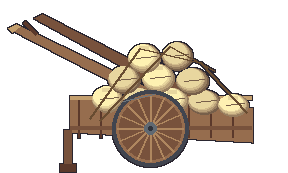
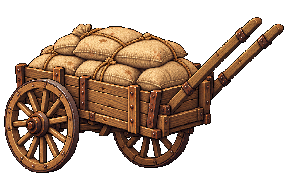
feat(assets): marsh path and port scenery

diff --git a/assets/CREDITS.md b/assets/CREDITS.md
@@ -34,6 +34,11 @@ egg n'a pas de licence établie (PLAN.md section 13) et n'est pas copié.
 
 | `assets/hd2d/ground/grass_b.png`, `assets/hd2d/ground/forest_floor_b.png`, `assets/hd2d/ground/path_dirt_b.png`, `assets/hd2d/ground/leaf_litter.png`, `assets/hd2d/ground/moss.png`, `assets/hd2d/ground/grass_dry_b.png`, `assets/hd2d/ground/flagstone_b.png`, `assets/hd2d/ground/cobble_b.png`, `assets/hd2d/ground/meadow_flowers.png`, `assets/hd2d/ground/gravel.png`, `assets/hd2d/ground/garden_soil.png`, `assets/hd2d/ground/sand_b.png`, `assets/hd2d/ground/rock_b.png`, `assets/hd2d/ground/planks.png`, `assets/hd2d/ground/stream_bed.png`, `assets/hd2d/decals/grass_edge_a.png`, `assets/hd2d/decals/grass_edge_b.png`, `assets/hd2d/decals/pebbles_a.png`, `assets/hd2d/decals/garden_bed.png`, `assets/hd2d/decals/clover_patch.png`, `assets/hd2d/decals/flowers_patch_a.png`, `assets/hd2d/decals/flowers_patch_b.png`, `assets/hd2d/decals/puddle_a.png`, `assets/hd2d/decals/puddle_b.png`, `assets/hd2d/decals/mud_patch.png`, `assets/hd2d/decals/cracks_a.png`, `assets/hd2d/decals/cracks_b.png`, `assets/hd2d/decals/pebbles_b.png`, `assets/hd2d/decals/stepping_stones.png`, `assets/hd2d/decals/lily_pads.png`, `assets/hd2d/decals/sand_drift_a.png`, `assets/hd2d/decals/sand_drift_b.png`, `assets/hd2d/decals/ring_stone_flat_a.png`, `assets/hd2d/decals/ring_stone_flat_b.png`, `assets/hd2d/decals/ring_stone_flat_c.png`, `assets/hd2d/decals/chalk_drawings.png`, `assets/hd2d/decals/chalk_hopscotch.png`, `assets/hd2d/decals/oil_stain.png`, `assets/hd2d/decals/rust_streak.png`, `assets/hd2d/decals/footprints.png`, `assets/hd2d/decals/cart_ruts.png`, `assets/hd2d/decals/drain_grate.png`, `assets/hd2d/decals/hay_scatter.png`, `assets/hd2d/decals/boardwalk.png`, `assets/hd2d/decals/mist_patch.png` | généré avec ChatGPT le 8 octobre 2026, lot B (outil image_gen) ; mise au format nearest-neighbor et adaptation technique des masques/raccords, sans quantification RGB | — | images générées pour le projet ; univers inspiré de SukaSuka, droits des ayants droit réservés | Monde B |
 
+### Île 68 — chemin du marais et port (cahier n° 6, A.1–A.2)
+
+Dix-sept PNG redessinés avec OpenAI Image Generation à partir des références du projet et des planches officielles de SukaSuka : eau de marais, pierres, végétation, racines, signalisation, bras d’amarrage ouvert, sifflet, cabestan, charrettes, palissade et maison du gardien avec son flanc. Formats natifs et transparence vérifiés ; recalage géométrique au plus proche voisin. Sources originales conservées hors dépôt. Les droits des personnages et références de SukaSuka restent à leurs ayants droit.
+
+
 ### Lot G — corrections des raccords et détourages
 
 Six PNG corrigés avec ChatGPT / image_gen : `assets/hd2d/sky/sky_dusk.png`, `assets/hd2d/sky/sky_night.png`, `assets/hd2d/sky/horizon_islands.png`, `assets/hd2d/sky/mist_band.png`, `assets/hd2d/sky/distant_island_d.png`, `assets/hd2d/sky/distant_island_f.png`. Sources conservées hors du dépôt ; assemblage et détourage sans réduction de palette.
